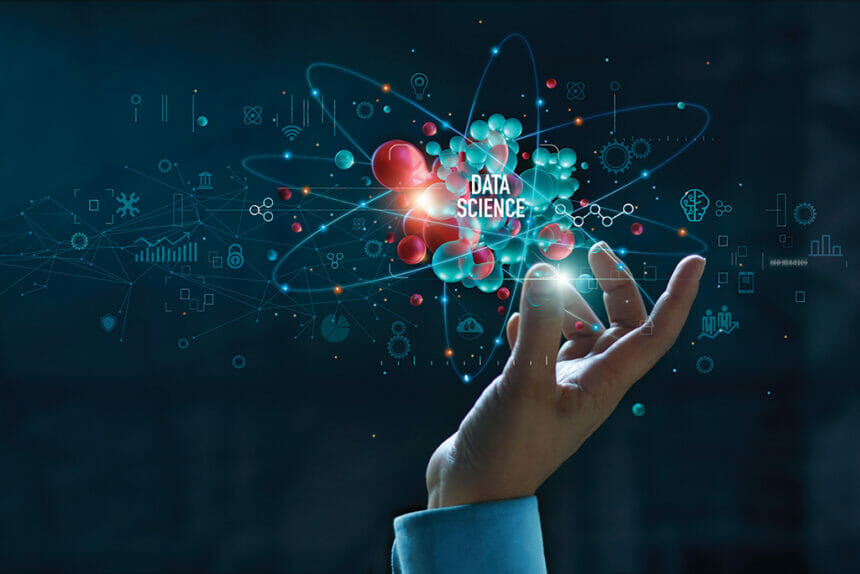
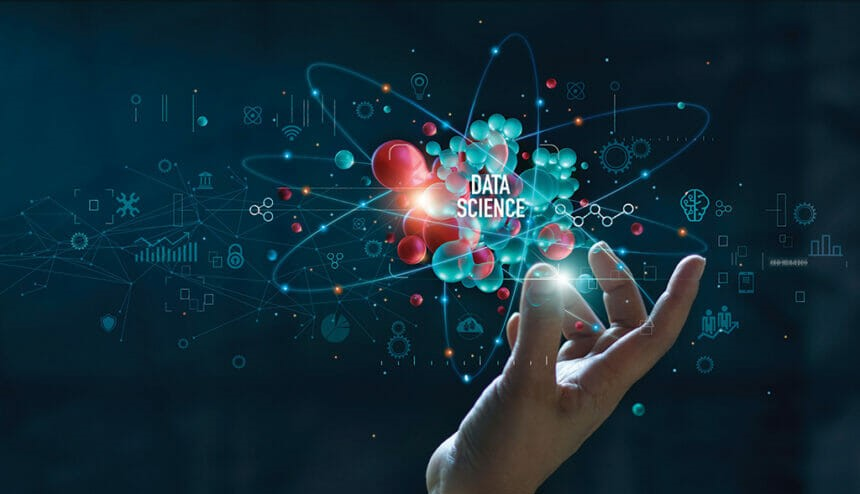
Update datasection

diff --git a/apps/client-app/app/home/components/DataSolution.tsx b/apps/client-app/app/home/components/DataSolution.tsx
@@ -81,9 +81,7 @@ export default function DataSolution() {
       onMouseLeave={() => setIsHovered(false)} // Resume auto-rotate on leave
     >
       <div className="container mx-auto px-4 sm:px-8 lg:px-36 text-center">
-        <h2
-          className="text-xl md:text-2xl font-bold mb-4 md:mb-8"
-        >
+        <h2 className="text-xl md:text-2xl font-bold mb-4 md:mb-8">
           Data Solutions for Every Role in Your Organization
         </h2>
 
@@ -143,6 +141,7 @@ export default function DataSolution() {
               src={Data[activeTab].img}
               alt={Data[activeTab].title}
               sizes="(max-width: 768px) 100vw, 600px"
+              className="object-cover"
               priority
             />
           </div>
